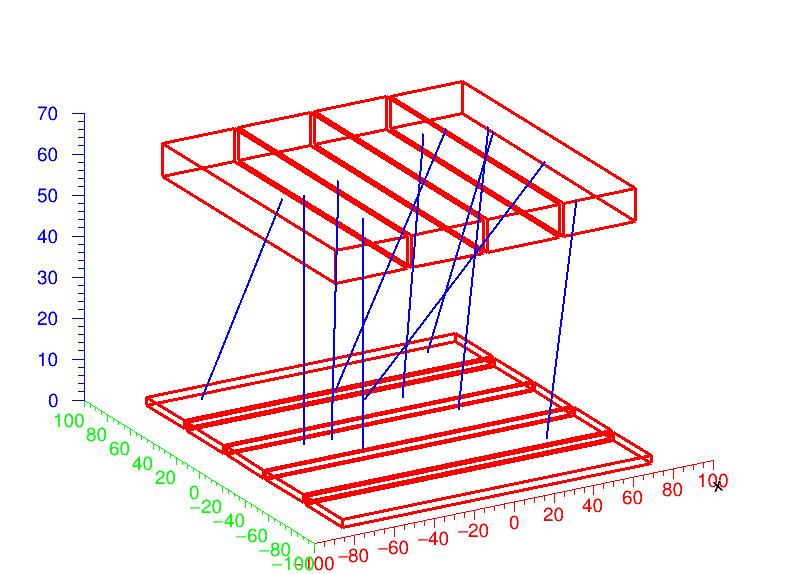
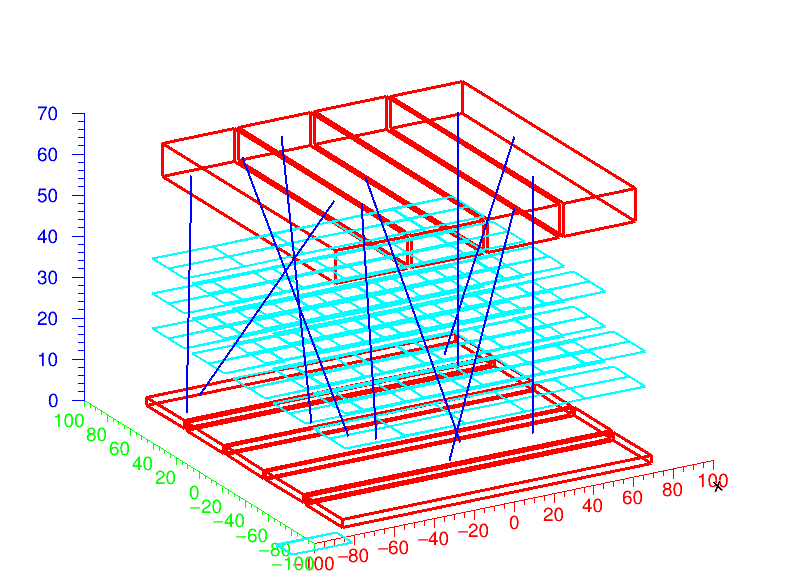
save temp

Changed region(s): [[0.1805, 0.2369, 0.812, 0.7997], [0.3308, 0.9181, 0.4511, 0.9774], [0.6617, 0.2962, 0.6917, 0.3258]]

diff --git a/src/chip.cpp b/src/chip.cpp
@@ -30,6 +30,7 @@ void chip::print_chip(chip& c, TCanvas* canvas){
     //a,b,c coordinate del centro della box
     //metà delle dimensioni della scatola --> a -+ d / b -+ e / c -+ f
     //g,h angoli di orientazione della box, sempre 0,0
+    canvas->cd();
     if(check_chip_status(c)){
         TMarker3DBox *chip = new TMarker3DBox(c.x, c.y, c.z, chip::x_dim/2, chip::y_dim/2, chip::z_dim/2, 0,0);
         chip->SetLineWidth(2);
@@ -39,9 +40,17 @@ void chip::print_chip(chip& c, TCanvas* canvas){
     if(!check_chip_status(c)){
         cout << "WARNING! Il seguente chip risulta spento, id: " << c.id << endl;
     }
-    
 }
 
+void chip::set_chip_coordinates(chip& c, double x, double y, double z, unsigned short id){
+    c.x = x;
+    c.y = y;
+    c.z = z;
+    c.id = id;
+}
+
+
+chips::chips(){}
 
 chips::chips(const std::array<unsigned short, 150> ChipIds, const std::array<TVector3, 150> chip_coordinates){
     //fill che id_coordinates vector with appropriate values
@@ -54,7 +63,37 @@ chips::chips(const std::array<unsigned short, 150> ChipIds, const std::array<TVe
     }
 }
 
-    static const std::array<unsigned short, 150> ChipIds = {
+void chips::print_all_chips(chips& c, TCanvas* canvas){
+    for(int i = 0; i< ChipIds.size(); i++){
+        const TVector3& coordinates = chip_coordinates[i];
+        double x = coordinates[0];
+        double y = coordinates[1];
+        double z = coordinates[2];
+        chip chip_instance;
+        chip_instance.id = ChipIds[i];
+        chip_instance.set_chip_coordinates(chip_instance,x,y,z, ChipIds[i]);
+        if(!chip_instance.is_chip_dead(chip_instance, chips::dead_chip)){
+            chip_instance.print_chip(chip_instance,canvas);            //chip is alive --> print it
+        }
+        if(chip_instance.is_chip_dead(chip_instance, chips::dead_chip)){
+            cout << "WARNING! THE FOLLOWING CHIP IS TURNED OFF, id: " << ChipIds[i] << endl;
+        }
+    }
+}
+
+bool chip::is_chip_dead(chip& c, const std::vector<unsigned short> dead_chip){
+    for(int i = 0; i < dead_chip.size(); i++){
+        if(c.id == dead_chip[i]){
+            return true;                //chip dead --> function return true
+        }    
+    }
+    return false;               //chip alive --> function return false, means not dead
+}
+
+const std::vector<unsigned short> chips::dead_chip = {0x07c,0x07b,0x07a,0x079,0x078,
+    0x070,0x071,0x072,0x073,0x074};
+
+const std::array<unsigned short, 150> chips::ChipIds = {
     //50 chip per piano
     // top layer
     0x07c,0x07b,0x07a,0x079,0x078,
@@ -91,7 +130,7 @@ chips::chips(const std::array<unsigned short, 150> ChipIds, const std::array<TVe
     0xe70,0xe71,0xe72,0xe73,0xe74
     };
 
-    static const std::array<TVector3, 150> chip_coordinates = {
+const std::array<TVector3, 150> chips::chip_coordinates = {
     // top layer (layer2)
     // row 0
     TVector3(-2*(display::ChipSizeX + display::ChipDistanceX), -(2*display::ChipStaveDistanceY + 2.5*display::ChipDistanceY + 4.5*display::ChipSizeY), display::StaveZ[2]),

diff --git a/include/chip.h b/include/chip.h
@@ -25,21 +25,26 @@ struct chip{
     double y_dim = display::ChipSizeY;
     double z_dim = display::ChipSizeZ;
     unsigned short id = 0xFFFF;
-    bool status = false;         //status (acceso = true/spento = false)
+    bool status = true;         //status (acceso = true/spento = false)
 
     bool check_chip_status(chip& c);
     void print_chip(chip& c, TCanvas* canvas);
+    void set_chip_coordinates(chip& c, double x, double y, double z, unsigned short id);
+    bool is_chip_dead(chip& c, const std::vector<unsigned short> dead_chip);
 };
 
 struct chips{
-    
+    chips();
     chips(const std::array<unsigned short, 150> ChipIds, const std::array<TVector3, 150> chip_coordinates);
-    //void print_all_chips()
-
+    void print_all_chips(chips& c, TCanvas* canvas);
+    
     std::unordered_map<unsigned short, std::vector<TVector3>> id_coordinates;
 
     static const std::array<unsigned short, 150> ChipIds;
     static const std::array<TVector3, 150> chip_coordinates;
+    
+    //crea vector con tutti i chip spenti e controlla su questo array
+    static const std::vector<unsigned short> dead_chip;
 };
 
 

diff --git a/src/main.cpp b/src/main.cpp
@@ -36,6 +36,8 @@ void run(){
     
     chip c;
     c.print_chip(c, real_tracks);
+    chips cc;
+    cc.print_all_chips(cc, real_tracks);
 
 
 
